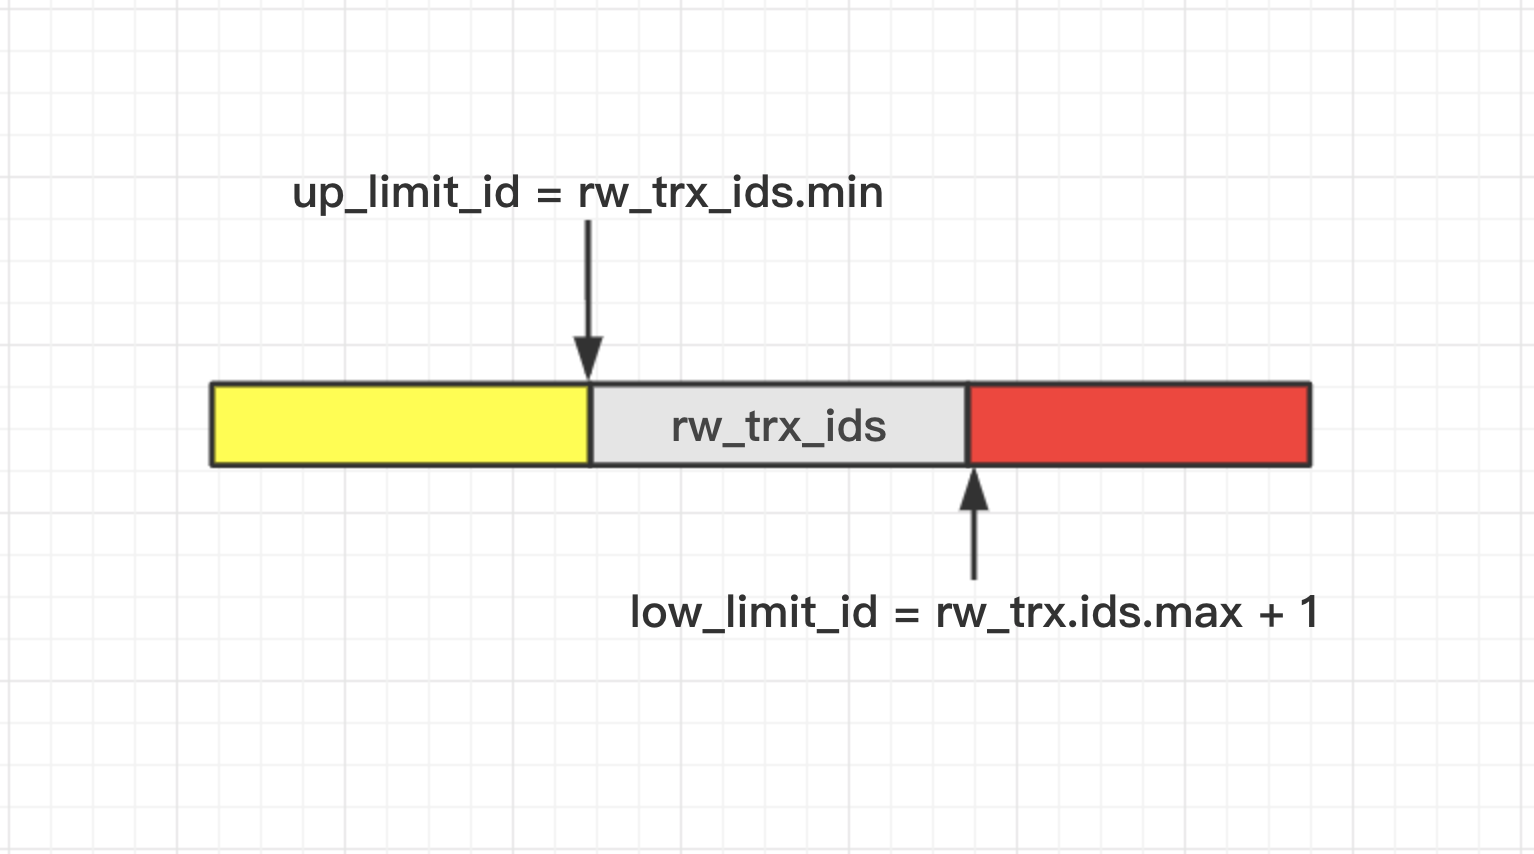
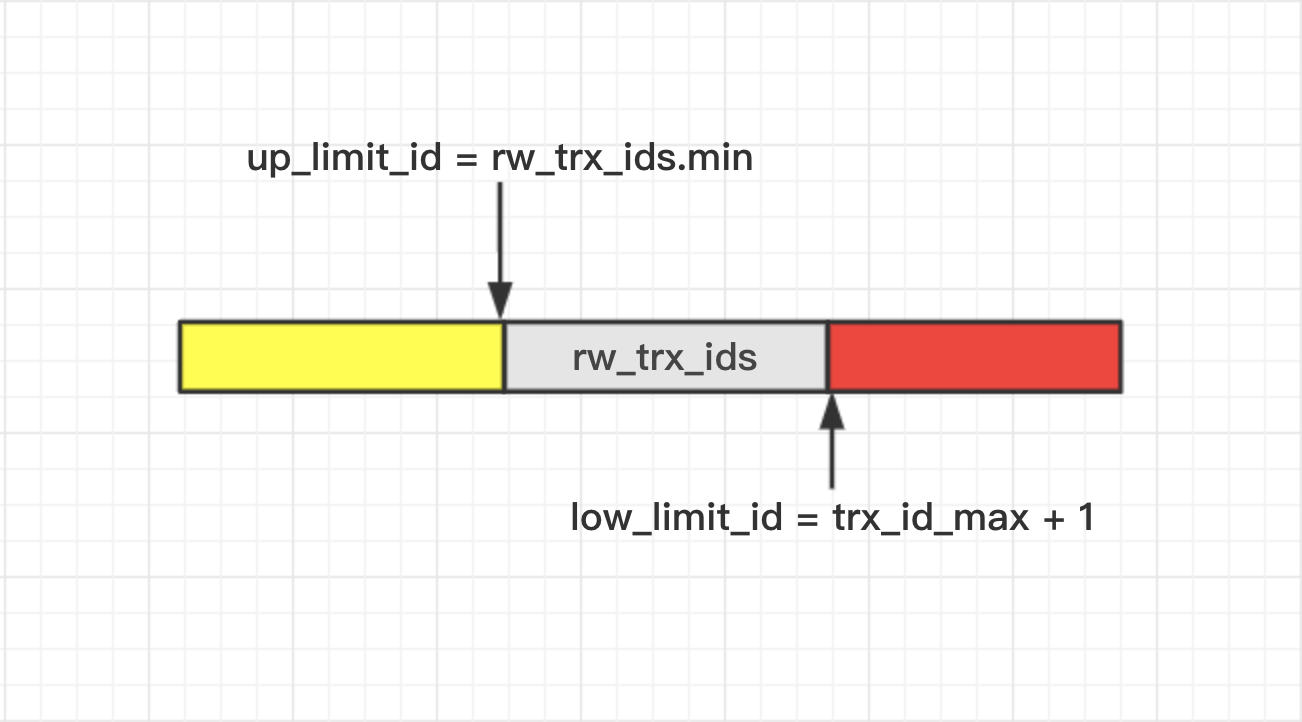
mysql mvcc

Changed region(s): [[0.1229, 0.1828, 0.8909, 0.6704], [0.3994, 0.7008, 0.8602, 0.7618]]

diff --git a/原理分析/mysql/innodb/锁/InnoDB中MVCC实现机制.md b/原理分析/mysql/innodb/锁/InnoDB中MVCC实现机制.md
@@ -35,8 +35,9 @@ Read View中保存的trx_sys状态主要包括：
 - rw_trx_ids:活跃的读写事务id数组  
 ![avatar](image/mvcc_read_view.png)
 如上图所示：   
-up_limit_id为活跃读写事务数组中的最小事务id  
-low_limit_id为活跃读写事务数组中的最大事务id加1，表示在当前read view下还未开启的事务id  
+up_limit_id:活跃读写事务数组中的最小事务id  
+low_limit_id:所有已提交的最大事务id加1
+trx_id_max:所有已提交的最大事务id
 SELECT操作返回的结果的可见性由以下规则决定：
 - 当记录的DB_TRX_ID < up_limit_id时，表示该记录的最后一次修改是在创建read view之前，可见；
 - 当记录的DB_TRX_ID >= low_limit_id时，表示该记录的最后一次修改是在创建read view之后，不可见；此时，根据DB_ROLL_PTR查找undo log(此记录的上一次修改)，然后根据undo log的DB_TRX_ID根据该规则在计算一次可见性  
